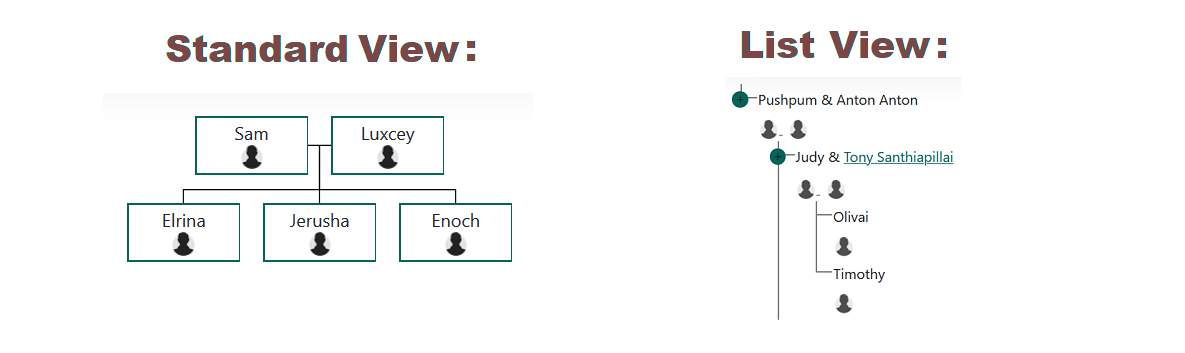
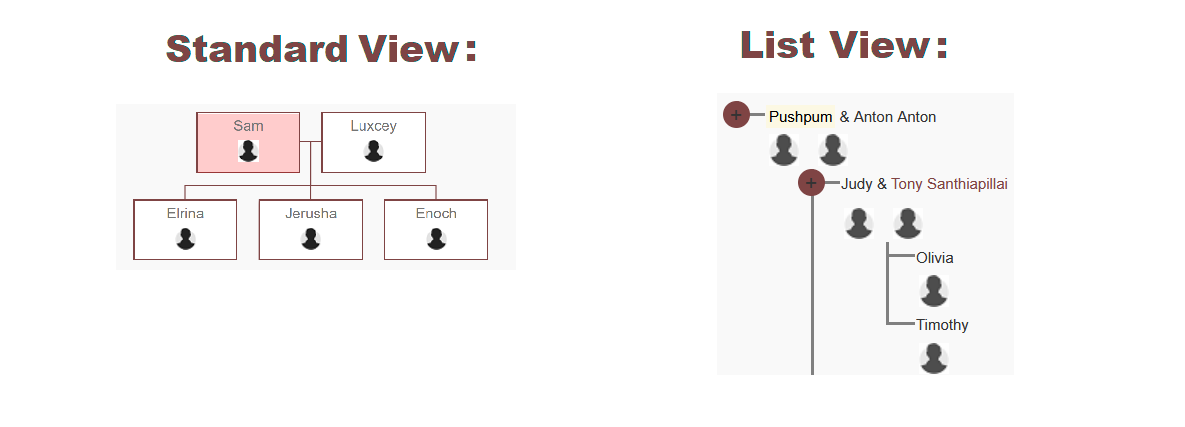
commit

diff --git a/css/vertical_tree.css b/css/vertical_tree.css
@@ -6,6 +6,14 @@
     margin:0;
     background-color:#f8f9fa;
 }
+
+
+#treePerson:hover{
+    box-shadow: 5px 10px 18px #7F4444;
+}
+
+
+
 #searchOption{
     background: none; 
     border: none; 
@@ -117,22 +125,21 @@ ul #vertical_tree > li:after, ul #vertical_tree > li:before{
     margin:0;
 }
 
-#vertical_tree summary:not(:has(>#duplicate))::before{
-    position:absolute;
-    content:"+";
-    background:#7F4444;
-    display:block;
-    width:18px;
-    height:18px;
-    border-radius:50em;
-    left:-19px;
-    top:.5em;
-    z-index:2;
-    text-align:center;
-    line-height:.8em;
-    
+#vertical_tree summary:not(:has(>#duplicate))::before {
+    position: absolute;
+    content: "+";
+    background: #7F4444;
+    display: flex;
+    align-items: center;
+    justify-content: center;
+    width: 18px;
+    height: 18px;
+    border-radius: 50%;
+    left: -19px;
+    z-index: 2;
+    font-size: 14px;
+    cursor: pointer;
 }
-
 #vertical_tree summary{
     list-style: none;
 }

diff --git a/css/styles.css b/css/styles.css
@@ -65,9 +65,6 @@ html{
       background-color:white;
 			border-style: solid;
 			border-width: 2px;
-
-      box-shadow:5px 5px 5px 5px #7F4444;
-      
       border-color:#7F4444;
 			box-sizing: border-box;
       padding-bottom:20px;
@@ -76,14 +73,14 @@ html{
       background-color:white;
 			border-style: solid;
 			border-width: 2px;
-      
-      box-shadow:5px 5px 5px 5px #7F4444;
-
       border-color:#7F4444;
 			box-sizing: border-box;
       padding-bottom:20px;
-
 	}
+
+  .man:hover,.woman:hover{
+    border:5px solid #9F5E5E;
+  }
 
 
 	.emphasis{
@@ -333,6 +330,7 @@ fieldset{
 #numberOfPeople,#numberOfFamilies{
   padding-top:15px;
   font-weight:bold;
+  color:#7F4444;
 }
 
 #option{

diff --git a/admin/classes/HomeView.php b/admin/classes/HomeView.php
@@ -1,10 +1,14 @@
 <?php
 class HomeView extends View{
     public function render(){
+
         $homeDropdownImagePath = $this->SettingService->getSettingValueByName("homeDropdownImagePath");
         $homeDropdownImagePath = new Setting($homeDropdownImagePath);
         $homeErrorImagePath = $this->SettingService->getSettingValueByName("homeErrorImagePath");
         $homeErrorImagePath = new Setting($homeErrorImagePath);
+        if($this->request['pageType'] == "page_error"){
+            echo $this->object;
+        }
         if($this->request['req'] == "search"){
             ?>
                 <section id='searchResult' data-stellar-background-ratio='0.5'>
@@ -367,40 +371,6 @@ class HomeView extends View{
           </div>
         </section>
 
-     <section id="contact" data-stellar-background-ratio="0.5">
-          <div class="container">
-               <div class="row">
-
-                    <div class="col-md-offset-1 col-md-10 col-sm-12">
-                         <form id="contact-form" role="form" action="" method="post">
-                              <div class="section-title">
-                                   <h1>Report Errors In The Family Tree
-                                   </h1>
-                              </div>
-
-                              <div class="col-md-4 col-sm-4">
-                                   <input type="text" class="form-control" placeholder="Full name" name="name" required="">
-                              </div>
-                              <div class="col-md-4 col-sm-4">
-                                   <input type="email" class="form-control" placeholder="Email address" name="email" required="">
-                              </div>
-                              <div class="col-md-4 col-sm-4">
-                                   <input type="submit" class="form-control" name="send message" value="Send Message">
-                              </div>
-                              <div class="col-md-12 col-sm-12">
-                                   <textarea class="form-control" rows="8" placeholder="Your message" name="message" required=""></textarea>
-                              </div>
-                              <input type='hidden' name='req' value='contact'/>
-                         </form>
-                    </div>
-
-               </div>
-          </div>
-     </section>       
-
-
-
-
         <script src="js/jquery.js"></script>
         <script src="js/bootstrap.min.js"></script>
         <script src="js/jquery.stellar.min.js"></script>
@@ -623,9 +593,12 @@ class HomeView extends View{
                                 <li><a href="?req=searchForm#home" class="smoothScroll" style='color:black;'>Home</a></li>
                                 <li><a href="?req=searchForm#AIFamilyTree" class="smoothScroll" style='color:black;'>Tree Search</a></li>
                                 <li><a href="?req=searchForm#views" class="smoothScroll" style='color:black;'> Display Types</a></li>
-                                <li><a href="?req=searchForm#contact" class="smoothScroll"> Contact Us</a></li>
 
                             </ul>
+                            <ul class="nav navbar-nav navbar-right">
+                                <li><a href="http://localhost/gracian/familytree/admin/login.php" style='color:black;' target = "_blank" class='smoothScroll'>Login</a></li>
+                            </ul>
+
                     </div>
 
                 </div>
@@ -654,7 +627,6 @@ class HomeView extends View{
                                 <li><a href="#home" class="smoothScroll">Home</a></li>
                                 <li><a href="#AIFamilyTree" class="smoothScroll">Tree Search</a></li>
                                 <li><a href="#views" class="smoothScroll"> Display Types</a></li>
-                                <li><a href="#contact" class="smoothScroll"> Contact Us</a></li>
                             </ul>
                             <ul class="nav navbar-nav navbar-right">
                                 <li><a href="http://localhost/gracian/familytree/admin/login.php" target = "_blank" class='smoothScroll'>Login</a></li>
@@ -669,8 +641,8 @@ class HomeView extends View{
     }
     public function setFooter(){
         ?>
-        <div class='container-fluid'>
-            <div class='row' id='footer'>
+        <div class='container-fluid' style='box-shadow: 0 -5px 10px -5px #7F4444;'>
+            <div class='row' id='footer' style='height:100px;'>
                 <p style="text-align: center; font-size: 14px; color: black; margin-top: 20px;margin-bottom:20px;">
                     © <?php echo date("Y"); ?> Family Tree. All rights reserved. Please view our <a href="?req=termsofuse" style='text-decoration:underline;color:#7F4444;'>Terms of Use</a> & <a href="?req=privacynotice" style='color:#7F4444;text-decoration:underline;'>Privacy Notice</a>
                 </p>

diff --git a/admin/classes/FamilyBuilderImpl.php b/admin/classes/FamilyBuilderImpl.php
@@ -119,7 +119,7 @@ class FamilyBuilderImpl implements Builder{
                                             textRenderer: function(name, extra, textClass) {
                                             if (extra && extra.pid) {
                                                 if(extra.pid == "<?php echo $select; ?>"){
-                                                    string = "<p align='center' class='" + textClass + "' id='node' style='background-color: rgba(255, 0, 0, 0.2); '>"
+                                                    string = "<p align='center' class='" + textClass + "' id='node' style='border:5px solid #BF7878;'>"
                                                     + name
                                                     + "<br/>"
                                                     + "<a href='?pid=" + extra.pid + "&pageType=page_profile&display_type=horizontal&req=searchForm'>"
@@ -134,7 +134,7 @@ class FamilyBuilderImpl implements Builder{
                                                     string = "<p align='center' class='" + textClass + "' id='node'>"
                                                             + name
                                                             + "<br/>"
-                                                            + "<a href='?pid="+extra.pid+"&pageType=page_profile&req=searchForm'/><img id='person_image'  src='<?php echo $this->imagePath; ?>" + extra.pid + ".png' "
+                                                            + "<a href='?pid="+extra.pid+"&pageType=page_profile&display_type=horizontal&req=searchForm'/><img id='person_image'  src='<?php echo $this->imagePath; ?>" + extra.pid + ".png' "
                                                             +     "onerror=\"this.onerror=null; this.src='admin/img/man.png';\" style='padding-bottom:9px;' "
                                                             + "/></a>"
                                                         + "</p>";

diff --git a/admin/classes/TreeBuilderImpl.php b/admin/classes/TreeBuilderImpl.php
@@ -54,7 +54,7 @@ class TreeBuilderImpl implements Builder{
 
 
 
-                            $html .= "<a href='?pid={$person->pid}&pageType=page_profile&display_type=vertical&req=searchForm'><img style='box-shadow: 5px 10px 18px #7F4444;' src='admin/img/people/ph_20/" . $person->psid . ".png' id='treePerson' value='" . $person->psid . "' alt=''></a>";
+                            $html .= "<a href='?pid={$person->pid}&pageType=page_profile&display_type=vertical&req=searchForm'><img style='' src='admin/img/people/ph_20/" . $person->psid . ".png' id='treePerson' value='" . $person->psid . "' alt=''></a>";
 
 
 
@@ -69,7 +69,6 @@ class TreeBuilderImpl implements Builder{
                         <img 
                             src='admin/img/people/ph_20/{$person->pid}.png' 
                             id='treePerson'  
-                            style='box-shadow: 5px 10px 18px #7F4444;'
                             onerror='this.onerror=null; this.src="admin/img/man.png";'  
                             value='{$person->pid}' 
                             alt=''
@@ -81,7 +80,6 @@ class TreeBuilderImpl implements Builder{
                         <img 
                             src='admin/img/people/ph_20/{$partner->pid}.png' 
                             id='treePerson'  
-                            style='box-shadow: 5px 10px 18px #7F4444;'
                             onerror='this.onerror=null; this.src="admin/img/man.png";'  
                             value='{$partner->pid}' 
                             alt=''
@@ -123,7 +121,6 @@ class TreeBuilderImpl implements Builder{
                         id='treePerson'  
                         onerror='this.onerror=null; this.src="admin/img/man.png";'  
                         value='{$person->pid}' 
-                        style='box-shadow: 5px 10px 18px #7F4444;'
                         alt=''
                     >
                 </a>

diff --git a/admin/classes/Controller.php b/admin/classes/Controller.php
@@ -46,23 +46,21 @@ class Controller{
                 $form = $Builder->generateTree($this->pid,$this->select,$this->request);
             }
         }
-        else if($this->req == "contact"){
-            $Contact = new Contact($this->request);
-            $Contact->process();
-        }
-        else if(stripos($this->req,"page_") !== false){
+        else if(stripos($this->request['pageType'],"page_") !== false){
             $PageService = new PageService($this->request,"");
             $PageService->renderContent();
             $form = $PageService->getContentText();
+
         }
         else if($this->req == "termsofuse" || $this->req == "privacynotice"){
             $form = "";
-        }   
+        } 
+
         $HomeView = new HomeView($this->request,$form);
 
 
         echo "<div id='navbar'>";
-            if($this->request['req'] == "termsofuse" || $this->request['req'] == "privacynotice"){
+            if($this->request['req'] == "termsofuse" || $this->request['pageType'] == "page_error" || $this->request['req'] == "privacynotice"){
                 $HomeView->setTermsLinksNavMenu();
             }
             else{

diff --git a/index.php b/index.php
@@ -27,14 +27,18 @@ include "admin/classes/QueryBuilder.php";
     <?php   
       $request = $_REQUEST;
 
-      $validation = new Validation($request);
-    if(!$validation->validate()){
-        $request['req'] = "page_error";
-    }
-    $Controller = new Controller($request);
-    $Controller->process();
 
-    include "templates/footer.php";
+        $validation = new Validation($request);
+        if(!$validation->validate()){
+            $request['pageType'] = "page_error";
+        }
+
+
+
+        $Controller = new Controller($request);
+        $Controller->process();
+
+        include "templates/footer.php";
     ?>
   </div>
   <script src="js/script.js" type="text/javascript"></script>

diff --git a/admin/classes/Validation.php b/admin/classes/Validation.php
@@ -12,6 +12,14 @@ class Validation{
            isset($this->request['req'])
         )
         {
+            foreach($this->request as $key=>$value){
+                if(preg_match('/^[A-Za-z0-9_-]+$/', $key) && preg_match('/^[A-Za-z0-9_-]+$/', $value)){
+                    // don't return anything
+                }
+                else{
+                    return false;
+                }
+            }
             return true;
         }
         else{

diff --git a/admin/classes/PageService.php b/admin/classes/PageService.php
@@ -97,6 +97,7 @@ class PageService{
             }
         }
         else if($this->req_name == "error"){
+            
             $this->contentText = $this->DatabaseManager->getPage("error")['content'];
         }
     }
